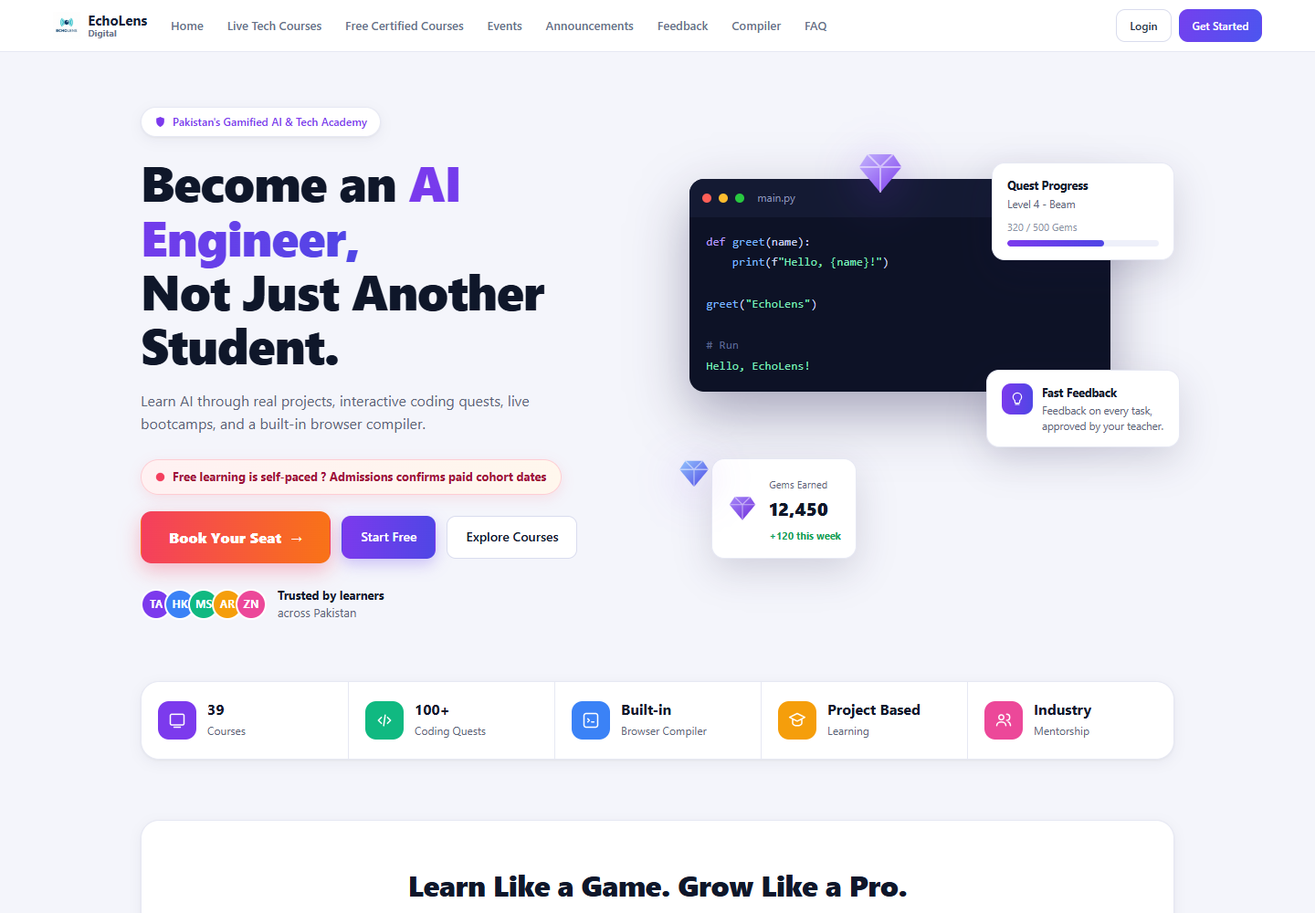
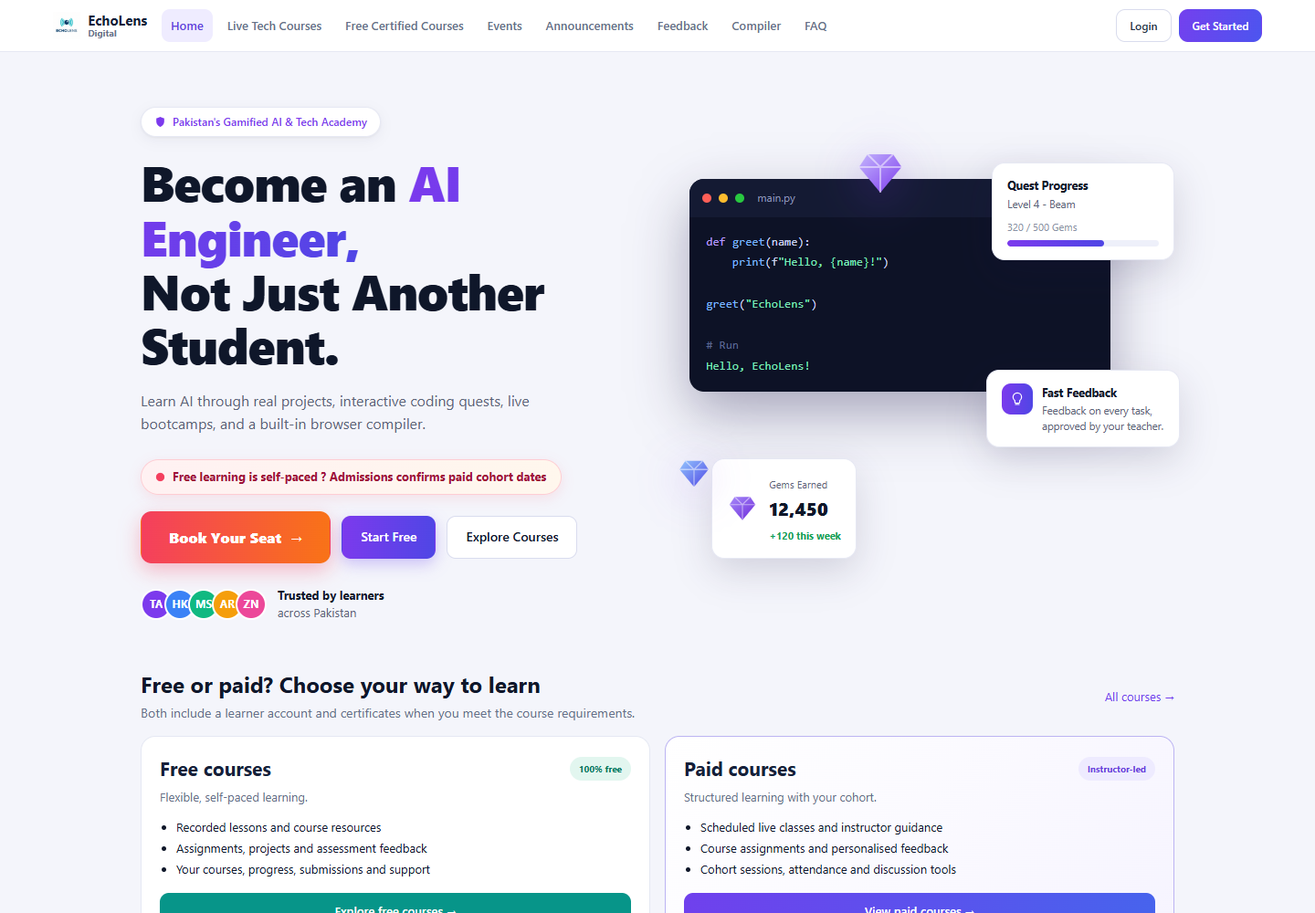
Make main website Home and place learning comparison after hero

diff --git a/public/landing.html b/public/landing.html
@@ -397,11 +397,12 @@ footer{background:var(--navy);color:#B9C1E4}
 </style>
 <link rel="stylesheet" href="/css/workflow.css">
 <link rel="stylesheet" href="/css/public-navigation.css?v1">
+<link rel="stylesheet" href="/css/home-learning.css?v1">
 </head>
 <body>
 
 <!-- ================================ NAV ================================ -->
-<nav class="open-nav public-navigation" aria-label="Main navigation"><a class="public-brand" href="/open#home" aria-label="EchoLens Home"><img src="/img/logo.png" alt="EchoLens"><span>EchoLens<small>Digital</small></span></a><a class="nlink" href="/open#home" data-tab="home">Home</a><a class="nlink" href="/open#paid" data-tab="courses" data-catnav="paid">Live Tech Courses</a><a class="nlink" href="/open#free" data-tab="courses" data-catnav="free">Free Certified Courses</a><a class="nlink" href="/open#events" data-tab="events">Events</a><a class="nlink" href="/open#announcements" data-tab="announcements">Announcements</a><a class="nlink" href="/open#feedback" data-tab="feedback">Feedback</a><a class="nlink" href="/compiler">Compiler</a><a class="nlink" href="/#faq">FAQ</a><span class="public-nav-account"><a class="btn btn-ghost btn-sm" id="signinBtn" data-public-login href="/login">Login</a><a class="btn btn-primary btn-sm" href="/open#signup">Get Started</a></span></nav>
+<nav class="open-nav public-navigation" aria-label="Main navigation"><a class="public-brand" href="/" aria-label="EchoLens Home"><img src="/img/logo.png" alt="EchoLens"><span>EchoLens<small>Digital</small></span></a><a class="nlink" href="/" data-tab="home">Home</a><a class="nlink" href="/open#paid" data-tab="courses" data-catnav="paid">Live Tech Courses</a><a class="nlink" href="/open#free" data-tab="courses" data-catnav="free">Free Certified Courses</a><a class="nlink" href="/open#events" data-tab="events">Events</a><a class="nlink" href="/open#announcements" data-tab="announcements">Announcements</a><a class="nlink" href="/open#feedback" data-tab="feedback">Feedback</a><a class="nlink" href="/compiler">Compiler</a><a class="nlink" href="/#faq">FAQ</a><span class="public-nav-account"><a class="btn btn-ghost btn-sm" id="signinBtn" data-public-login href="/login">Login</a><a class="btn btn-primary btn-sm" href="/open#signup">Get Started</a></span></nav>
 
 <div class="wrap">
 
@@ -418,7 +419,7 @@ footer{background:var(--navy);color:#B9C1E4}
     <div class="hero-btns">
       <a class="btn btn-book" href="/open#register">Book Your Seat &nbsp;&rarr;</a>
       <a class="btn btn-grad" href="/open#signup">Start Free</a>
-      <a class="btn btn-outline" href="#courses">Explore Courses</a>
+      <a class="btn btn-outline" href="/open#courses">Explore Courses</a>
     </div>
     <div class="hero-proof">
       <div class="avatars">
@@ -473,6 +474,16 @@ footer{background:var(--navy);color:#B9C1E4}
     <svg class="gem-float gf2" viewBox="0 0 24 24"><defs><linearGradient id="gg2" x1="0" y1="0" x2="1" y2="1"><stop offset="0" stop-color="#93C5FD"/><stop offset="1" stop-color="#4F46E5"/></linearGradient></defs><path d="M6 3h12l4 6-10 12L2 9l4-6z" fill="url(#gg2)"/><path d="M6 3l6 6 6-6M2 9h20M12 9l0 12" stroke="rgba(255,255,255,.5)" stroke-width=".8" fill="none"/></svg>
   </div>
 </header>
+
+    <section id="learning-options" class="home-learning" aria-labelledby="home-learning-title">
+      <div class="home-section-head"><div><h2 id="home-learning-title">Free or paid? Choose your way to learn</h2><p>Both include a learner account and certificates when you meet the course requirements.</p></div><a href="/open#courses">All courses &rarr;</a></div>
+      <div class="home-learning-grid">
+        <article class="home-learning-card"><div class="home-card-title"><h3>Free courses</h3><span class="cmp-badge free">100% free</span></div><p>Flexible, self-paced learning.</p><ul><li>Recorded lessons and course resources</li><li>Assignments, projects and assessment feedback</li><li>Your courses, progress, submissions and support</li></ul><a class="btn btn-teal btn-block" href="/open#free">Explore free courses &rarr;</a></article>
+        <article class="home-learning-card paid"><div class="home-card-title"><h3>Paid courses</h3><span class="cmp-badge paid">Instructor-led</span></div><p>Structured learning with your cohort.</p><ul><li>Scheduled live classes and instructor guidance</li><li>Course assignments and personalised feedback</li><li>Cohort sessions, attendance and discussion tools</li></ul><a class="btn btn-primary btn-block" href="/open#paid">View paid courses &rarr;</a></article>
+      </div>
+      <p class="home-learning-note">Check each course's outline and availability. AI grading is available where enabled; project evidence can require staff review. Admissions confirms paid cohort dates and payment.</p>
+    </section>
+
 
 <!-- ================================ STATS ================================ -->
 <section class="stats" aria-label="Platform highlights">
@@ -717,7 +728,7 @@ b = 20
       <a class="btn btn-white" href="/open#signup">
         Start Free
       </a>
-      <a class="btn" style="border:1px solid rgba(255,255,255,.35);color:#fff" href="#courses">Explore Courses</a>
+      <a class="btn" style="border:1px solid rgba(255,255,255,.35);color:#fff" href="/open#courses">Explore Courses</a>
     </div>
   </div>
   <div class="cta-stats">

diff --git a/public/registration-status.html b/public/registration-status.html
@@ -12,5 +12,5 @@
 <meta charset="utf-8"><meta name="viewport" content="width=device-width,initial-scale=1"><meta name="robots" content="noindex,nofollow"><meta name="referrer" content="no-referrer"><title>Registration receipt · EchoLens</title><link rel="stylesheet" href="/css/styles.css?v1430"><style>main{max-width:640px;margin:40px auto;padding:24px}button,input{min-height:44px}#receipt p{line-height:1.6}.receipt-actions{display:flex;gap:12px;flex-wrap:wrap;margin:20px 0}#notice{margin:16px 0}label{display:block;margin:16px 0}input{width:100%}</style><link rel="stylesheet" href="/css/public-navigation.css?v1">
 </head>
 <body>
-<nav class="open-nav public-navigation" aria-label="Main navigation"><a class="public-brand" href="/open#home" aria-label="EchoLens Home"><img src="/img/logo.png" alt="EchoLens"><span>EchoLens<small>Digital</small></span></a><a class="nlink" href="/open#home" data-tab="home">Home</a><a class="nlink" href="/open#paid" data-tab="courses" data-catnav="paid">Live Tech Courses</a><a class="nlink" href="/open#free" data-tab="courses" data-catnav="free">Free Certified Courses</a><a class="nlink" href="/open#events" data-tab="events">Events</a><a class="nlink" href="/open#announcements" data-tab="announcements">Announcements</a><a class="nlink" href="/open#feedback" data-tab="feedback">Feedback</a><a class="nlink" href="/compiler">Compiler</a><a class="nlink" href="/#faq">FAQ</a><span class="public-nav-account"><a class="btn btn-ghost btn-sm" id="signinBtn" data-public-login href="/login">Login</a><a class="btn btn-primary btn-sm" href="/open#signup">Get Started</a></span></nav><main><a href="/open">EchoLens Digital</a><h1>Your registration</h1><p>Keep this receipt link private. You can return here after closing the page or missing an email.</p><div id="notice" role="status" aria-live="polite">Loading…</div><section id="receipt" hidden><h2 id="offering"></h2><p id="reference"></p><p id="stage"></p><p id="delivery"></p><p id="amount"></p><div class="receipt-actions"><button id="refresh" class="btn btn-ghost">Refresh status</button><button id="download" class="btn btn-primary" hidden>Download challan PDF</button><a href="/login" class="btn btn-ghost">Sign in</a></div></section><form id="recover"><h2>Recover a receipt</h2><label>Registration email<input name="email" type="email" autocomplete="email" required></label><button class="btn btn-primary">Email my receipt links</button></form><p>Need help? <a href="mailto:admissions@echolens.digital">Contact Admissions</a>.</p><a href="/open#free">Explore free self-paced courses</a></main><script src="/js/registration-status.js?v1"></script><script src="/js/public-navigation.js?v1"></script>
+<nav class="open-nav public-navigation" aria-label="Main navigation"><a class="public-brand" href="/" aria-label="EchoLens Home"><img src="/img/logo.png" alt="EchoLens"><span>EchoLens<small>Digital</small></span></a><a class="nlink" href="/" data-tab="home">Home</a><a class="nlink" href="/open#paid" data-tab="courses" data-catnav="paid">Live Tech Courses</a><a class="nlink" href="/open#free" data-tab="courses" data-catnav="free">Free Certified Courses</a><a class="nlink" href="/open#events" data-tab="events">Events</a><a class="nlink" href="/open#announcements" data-tab="announcements">Announcements</a><a class="nlink" href="/open#feedback" data-tab="feedback">Feedback</a><a class="nlink" href="/compiler">Compiler</a><a class="nlink" href="/#faq">FAQ</a><span class="public-nav-account"><a class="btn btn-ghost btn-sm" id="signinBtn" data-public-login href="/login">Login</a><a class="btn btn-primary btn-sm" href="/open#signup">Get Started</a></span></nav><main><a href="/open">EchoLens Digital</a><h1>Your registration</h1><p>Keep this receipt link private. You can return here after closing the page or missing an email.</p><div id="notice" role="status" aria-live="polite">Loading…</div><section id="receipt" hidden><h2 id="offering"></h2><p id="reference"></p><p id="stage"></p><p id="delivery"></p><p id="amount"></p><div class="receipt-actions"><button id="refresh" class="btn btn-ghost">Refresh status</button><button id="download" class="btn btn-primary" hidden>Download challan PDF</button><a href="/login" class="btn btn-ghost">Sign in</a></div></section><form id="recover"><h2>Recover a receipt</h2><label>Registration email<input name="email" type="email" autocomplete="email" required></label><button class="btn btn-primary">Email my receipt links</button></form><p>Need help? <a href="mailto:admissions@echolens.digital">Contact Admissions</a>.</p><a href="/open#free">Explore free self-paced courses</a></main><script src="/js/registration-status.js?v1"></script><script src="/js/public-navigation.js?v1"></script>
 </body></html>

diff --git a/public/open.html b/public/open.html
@@ -49,7 +49,7 @@
 </head>
 <body>
 
-<nav class="open-nav public-navigation" aria-label="Main navigation"><a class="public-brand" href="/open#home" aria-label="EchoLens Home"><img src="/img/logo.png" alt="EchoLens"><span>EchoLens<small>Digital</small></span></a><a class="nlink" href="/open#home" data-tab="home">Home</a><a class="nlink" href="/open#paid" data-tab="courses" data-catnav="paid">Live Tech Courses</a><a class="nlink" href="/open#free" data-tab="courses" data-catnav="free">Free Certified Courses</a><a class="nlink" href="/open#events" data-tab="events">Events</a><a class="nlink" href="/open#announcements" data-tab="announcements">Announcements</a><a class="nlink" href="/open#feedback" data-tab="feedback">Feedback</a><a class="nlink" href="/compiler">Compiler</a><a class="nlink" href="/#faq">FAQ</a><span class="public-nav-account"><span id="userBox"></span></span></nav>
+<nav class="open-nav public-navigation" aria-label="Main navigation"><a class="public-brand" href="/" aria-label="EchoLens Home"><img src="/img/logo.png" alt="EchoLens"><span>EchoLens<small>Digital</small></span></a><a class="nlink" href="/" data-tab="home">Home</a><a class="nlink" href="/open#paid" data-tab="courses" data-catnav="paid">Live Tech Courses</a><a class="nlink" href="/open#free" data-tab="courses" data-catnav="free">Free Certified Courses</a><a class="nlink" href="/open#events" data-tab="events">Events</a><a class="nlink" href="/open#announcements" data-tab="announcements">Announcements</a><a class="nlink" href="/open#feedback" data-tab="feedback">Feedback</a><a class="nlink" href="/compiler">Compiler</a><a class="nlink" href="/#faq">FAQ</a><span class="public-nav-account"><span id="userBox"></span></span></nav>
 
 <div class="open-wrap" id="appWrap">
 
@@ -80,7 +80,7 @@
 
   <!-- ================== COURSES (the portal's main page) ================== -->
   <section id="tab-courses" style="display:none">
-    <a class="nlink" href="#home">&larr; Home</a>
+    <a class="nlink" href="/">&larr; Home</a>
     <div style="display:flex;gap:14px;align-items:end;flex-wrap:wrap;margin-bottom:6px">
       <div>
         <h1 style="font-family:var(--font-display);font-size:28px;color:var(--ink)">Course catalogue</h1>
@@ -222,7 +222,7 @@
 <script src="/js/draft-store.js?v1"></script>
 <script src="/js/workflow-ui.js?v2"></script>
 <script src="/js/coderunner.js?v1421"></script>
-<script src="/js/open.js?v1441"></script>
+<script src="/js/open.js?v1442"></script>
 <script src="/js/public-navigation.js?v1"></script>
 </body>
 </html>

diff --git a/public/privacy.html b/public/privacy.html
@@ -28,7 +28,7 @@
 <link rel="stylesheet" href="/css/public-navigation.css?v1">
 </head>
 <body class="pub-body">
-<nav class="open-nav public-navigation" aria-label="Main navigation"><a class="public-brand" href="/open#home" aria-label="EchoLens Home"><img src="/img/logo.png" alt="EchoLens"><span>EchoLens<small>Digital</small></span></a><a class="nlink" href="/open#home" data-tab="home">Home</a><a class="nlink" href="/open#paid" data-tab="courses" data-catnav="paid">Live Tech Courses</a><a class="nlink" href="/open#free" data-tab="courses" data-catnav="free">Free Certified Courses</a><a class="nlink" href="/open#events" data-tab="events">Events</a><a class="nlink" href="/open#announcements" data-tab="announcements">Announcements</a><a class="nlink" href="/open#feedback" data-tab="feedback">Feedback</a><a class="nlink" href="/compiler">Compiler</a><a class="nlink" href="/#faq">FAQ</a><span class="public-nav-account"><a class="btn btn-ghost btn-sm" id="signinBtn" data-public-login href="/login">Login</a><a class="btn btn-primary btn-sm" href="/open#signup">Get Started</a></span></nav>
+<nav class="open-nav public-navigation" aria-label="Main navigation"><a class="public-brand" href="/" aria-label="EchoLens Home"><img src="/img/logo.png" alt="EchoLens"><span>EchoLens<small>Digital</small></span></a><a class="nlink" href="/" data-tab="home">Home</a><a class="nlink" href="/open#paid" data-tab="courses" data-catnav="paid">Live Tech Courses</a><a class="nlink" href="/open#free" data-tab="courses" data-catnav="free">Free Certified Courses</a><a class="nlink" href="/open#events" data-tab="events">Events</a><a class="nlink" href="/open#announcements" data-tab="announcements">Announcements</a><a class="nlink" href="/open#feedback" data-tab="feedback">Feedback</a><a class="nlink" href="/compiler">Compiler</a><a class="nlink" href="/#faq">FAQ</a><span class="public-nav-account"><a class="btn btn-ghost btn-sm" id="signinBtn" data-public-login href="/login">Login</a><a class="btn btn-primary btn-sm" href="/open#signup">Get Started</a></span></nav>
   <div class="pub-card" style="max-width:760px;text-align:left">
     <h1>Privacy</h1>
     <p class="s" style="color:var(--muted)">This page explains what EchoLens collects in plain language, with a detailed section on the Talent Marketplace specifically. It is not a substitute for formal legal advice - if you need a full Terms of Service or a legally reviewed privacy policy, have one drafted by counsel before relying on this page for that purpose.</p>

diff --git a/public/talent-projects.html b/public/talent-projects.html
@@ -27,7 +27,7 @@
 <link rel="stylesheet" href="/css/public-navigation.css?v1">
 </head>
 <body class="pub-body">
-<nav class="open-nav public-navigation" aria-label="Main navigation"><a class="public-brand" href="/open#home" aria-label="EchoLens Home"><img src="/img/logo.png" alt="EchoLens"><span>EchoLens<small>Digital</small></span></a><a class="nlink" href="/open#home" data-tab="home">Home</a><a class="nlink" href="/open#paid" data-tab="courses" data-catnav="paid">Live Tech Courses</a><a class="nlink" href="/open#free" data-tab="courses" data-catnav="free">Free Certified Courses</a><a class="nlink" href="/open#events" data-tab="events">Events</a><a class="nlink" href="/open#announcements" data-tab="announcements">Announcements</a><a class="nlink" href="/open#feedback" data-tab="feedback">Feedback</a><a class="nlink" href="/compiler">Compiler</a><a class="nlink" href="/#faq">FAQ</a><span class="public-nav-account"><a class="btn btn-ghost btn-sm" id="signinBtn" data-public-login href="/login">Login</a><a class="btn btn-primary btn-sm" href="/open#signup">Get Started</a></span></nav>
+<nav class="open-nav public-navigation" aria-label="Main navigation"><a class="public-brand" href="/" aria-label="EchoLens Home"><img src="/img/logo.png" alt="EchoLens"><span>EchoLens<small>Digital</small></span></a><a class="nlink" href="/" data-tab="home">Home</a><a class="nlink" href="/open#paid" data-tab="courses" data-catnav="paid">Live Tech Courses</a><a class="nlink" href="/open#free" data-tab="courses" data-catnav="free">Free Certified Courses</a><a class="nlink" href="/open#events" data-tab="events">Events</a><a class="nlink" href="/open#announcements" data-tab="announcements">Announcements</a><a class="nlink" href="/open#feedback" data-tab="feedback">Feedback</a><a class="nlink" href="/compiler">Compiler</a><a class="nlink" href="/#faq">FAQ</a><span class="public-nav-account"><a class="btn btn-ghost btn-sm" id="signinBtn" data-public-login href="/login">Login</a><a class="btn btn-primary btn-sm" href="/open#signup">Get Started</a></span></nav>
   <div class="pub-card" id="card" style="max-width:900px">
     <div class="pub-head"><div><h1>Student Projects</h1><div class="s" style="color:var(--muted)">Real, graded coursework and self-built projects from EchoLens students.</div></div></div>
     <div class="field" style="max-width:360px">

diff --git a/public/talent-search.html b/public/talent-search.html
@@ -27,7 +27,7 @@
 <link rel="stylesheet" href="/css/public-navigation.css?v1">
 </head>
 <body>
-<nav class="open-nav public-navigation" aria-label="Main navigation"><a class="public-brand" href="/open#home" aria-label="EchoLens Home"><img src="/img/logo.png" alt="EchoLens"><span>EchoLens<small>Digital</small></span></a><a class="nlink" href="/open#home" data-tab="home">Home</a><a class="nlink" href="/open#paid" data-tab="courses" data-catnav="paid">Live Tech Courses</a><a class="nlink" href="/open#free" data-tab="courses" data-catnav="free">Free Certified Courses</a><a class="nlink" href="/open#events" data-tab="events">Events</a><a class="nlink" href="/open#announcements" data-tab="announcements">Announcements</a><a class="nlink" href="/open#feedback" data-tab="feedback">Feedback</a><a class="nlink" href="/compiler">Compiler</a><a class="nlink" href="/#faq">FAQ</a><span class="public-nav-account"><a class="btn btn-ghost btn-sm" id="signinBtn" data-public-login href="/login">Login</a><a class="btn btn-primary btn-sm" href="/open#signup">Get Started</a></span></nav>
+<nav class="open-nav public-navigation" aria-label="Main navigation"><a class="public-brand" href="/" aria-label="EchoLens Home"><img src="/img/logo.png" alt="EchoLens"><span>EchoLens<small>Digital</small></span></a><a class="nlink" href="/" data-tab="home">Home</a><a class="nlink" href="/open#paid" data-tab="courses" data-catnav="paid">Live Tech Courses</a><a class="nlink" href="/open#free" data-tab="courses" data-catnav="free">Free Certified Courses</a><a class="nlink" href="/open#events" data-tab="events">Events</a><a class="nlink" href="/open#announcements" data-tab="announcements">Announcements</a><a class="nlink" href="/open#feedback" data-tab="feedback">Feedback</a><a class="nlink" href="/compiler">Compiler</a><a class="nlink" href="/#faq">FAQ</a><span class="public-nav-account"><a class="btn btn-ghost btn-sm" id="signinBtn" data-public-login href="/login">Login</a><a class="btn btn-primary btn-sm" href="/open#signup">Get Started</a></span></nav>
 <div id="gate" class="gate"><img src="/img/logo.png" alt="EchoLens" style="width:120px"><div>Loading talent search</div></div>
 <div class="content" id="app" style="display:none;max-width:1100px;margin:0 auto;padding:24px 16px 60px">
   <h1 style="margin-bottom:4px">Talent Search</h1>

diff --git a/public/talent-interest.html b/public/talent-interest.html
@@ -27,7 +27,7 @@
 <link rel="stylesheet" href="/css/public-navigation.css?v1">
 </head>
 <body>
-<nav class="open-nav public-navigation" aria-label="Main navigation"><a class="public-brand" href="/open#home" aria-label="EchoLens Home"><img src="/img/logo.png" alt="EchoLens"><span>EchoLens<small>Digital</small></span></a><a class="nlink" href="/open#home" data-tab="home">Home</a><a class="nlink" href="/open#paid" data-tab="courses" data-catnav="paid">Live Tech Courses</a><a class="nlink" href="/open#free" data-tab="courses" data-catnav="free">Free Certified Courses</a><a class="nlink" href="/open#events" data-tab="events">Events</a><a class="nlink" href="/open#announcements" data-tab="announcements">Announcements</a><a class="nlink" href="/open#feedback" data-tab="feedback">Feedback</a><a class="nlink" href="/compiler">Compiler</a><a class="nlink" href="/#faq">FAQ</a><span class="public-nav-account"><a class="btn btn-ghost btn-sm" id="signinBtn" data-public-login href="/login">Login</a><a class="btn btn-primary btn-sm" href="/open#signup">Get Started</a></span></nav>
+<nav class="open-nav public-navigation" aria-label="Main navigation"><a class="public-brand" href="/" aria-label="EchoLens Home"><img src="/img/logo.png" alt="EchoLens"><span>EchoLens<small>Digital</small></span></a><a class="nlink" href="/" data-tab="home">Home</a><a class="nlink" href="/open#paid" data-tab="courses" data-catnav="paid">Live Tech Courses</a><a class="nlink" href="/open#free" data-tab="courses" data-catnav="free">Free Certified Courses</a><a class="nlink" href="/open#events" data-tab="events">Events</a><a class="nlink" href="/open#announcements" data-tab="announcements">Announcements</a><a class="nlink" href="/open#feedback" data-tab="feedback">Feedback</a><a class="nlink" href="/compiler">Compiler</a><a class="nlink" href="/#faq">FAQ</a><span class="public-nav-account"><a class="btn btn-ghost btn-sm" id="signinBtn" data-public-login href="/login">Login</a><a class="btn btn-primary btn-sm" href="/open#signup">Get Started</a></span></nav>
 <div id="gate" class="gate"><img src="/img/logo.png" alt="EchoLens" style="width:120px"><div>Loading</div></div>
 <div class="content" id="app" style="display:none;max-width:900px;margin:0 auto;padding:24px 16px 60px">
   <h1 style="margin-bottom:4px">My Contact Requests</h1>

diff --git a/public/talent-profile.html b/public/talent-profile.html
@@ -27,7 +27,7 @@
 <link rel="stylesheet" href="/css/public-navigation.css?v1">
 </head>
 <body class="pub-body">
-<nav class="open-nav public-navigation" aria-label="Main navigation"><a class="public-brand" href="/open#home" aria-label="EchoLens Home"><img src="/img/logo.png" alt="EchoLens"><span>EchoLens<small>Digital</small></span></a><a class="nlink" href="/open#home" data-tab="home">Home</a><a class="nlink" href="/open#paid" data-tab="courses" data-catnav="paid">Live Tech Courses</a><a class="nlink" href="/open#free" data-tab="courses" data-catnav="free">Free Certified Courses</a><a class="nlink" href="/open#events" data-tab="events">Events</a><a class="nlink" href="/open#announcements" data-tab="announcements">Announcements</a><a class="nlink" href="/open#feedback" data-tab="feedback">Feedback</a><a class="nlink" href="/compiler">Compiler</a><a class="nlink" href="/#faq">FAQ</a><span class="public-nav-account"><a class="btn btn-ghost btn-sm" id="signinBtn" data-public-login href="/login">Login</a><a class="btn btn-primary btn-sm" href="/open#signup">Get Started</a></span></nav>
+<nav class="open-nav public-navigation" aria-label="Main navigation"><a class="public-brand" href="/" aria-label="EchoLens Home"><img src="/img/logo.png" alt="EchoLens"><span>EchoLens<small>Digital</small></span></a><a class="nlink" href="/" data-tab="home">Home</a><a class="nlink" href="/open#paid" data-tab="courses" data-catnav="paid">Live Tech Courses</a><a class="nlink" href="/open#free" data-tab="courses" data-catnav="free">Free Certified Courses</a><a class="nlink" href="/open#events" data-tab="events">Events</a><a class="nlink" href="/open#announcements" data-tab="announcements">Announcements</a><a class="nlink" href="/open#feedback" data-tab="feedback">Feedback</a><a class="nlink" href="/compiler">Compiler</a><a class="nlink" href="/#faq">FAQ</a><span class="public-nav-account"><a class="btn btn-ghost btn-sm" id="signinBtn" data-public-login href="/login">Login</a><a class="btn btn-primary btn-sm" href="/open#signup">Get Started</a></span></nav>
   <div class="pub-card" id="card" style="max-width:760px">
     <div class="empty" style="padding:40px 10px">Loading profile&hellip;</div>
   </div>

diff --git a/public/talent-project.html b/public/talent-project.html
@@ -27,7 +27,7 @@
 <link rel="stylesheet" href="/css/public-navigation.css?v1">
 </head>
 <body class="pub-body">
-<nav class="open-nav public-navigation" aria-label="Main navigation"><a class="public-brand" href="/open#home" aria-label="EchoLens Home"><img src="/img/logo.png" alt="EchoLens"><span>EchoLens<small>Digital</small></span></a><a class="nlink" href="/open#home" data-tab="home">Home</a><a class="nlink" href="/open#paid" data-tab="courses" data-catnav="paid">Live Tech Courses</a><a class="nlink" href="/open#free" data-tab="courses" data-catnav="free">Free Certified Courses</a><a class="nlink" href="/open#events" data-tab="events">Events</a><a class="nlink" href="/open#announcements" data-tab="announcements">Announcements</a><a class="nlink" href="/open#feedback" data-tab="feedback">Feedback</a><a class="nlink" href="/compiler">Compiler</a><a class="nlink" href="/#faq">FAQ</a><span class="public-nav-account"><a class="btn btn-ghost btn-sm" id="signinBtn" data-public-login href="/login">Login</a><a class="btn btn-primary btn-sm" href="/open#signup">Get Started</a></span></nav>
+<nav class="open-nav public-navigation" aria-label="Main navigation"><a class="public-brand" href="/" aria-label="EchoLens Home"><img src="/img/logo.png" alt="EchoLens"><span>EchoLens<small>Digital</small></span></a><a class="nlink" href="/" data-tab="home">Home</a><a class="nlink" href="/open#paid" data-tab="courses" data-catnav="paid">Live Tech Courses</a><a class="nlink" href="/open#free" data-tab="courses" data-catnav="free">Free Certified Courses</a><a class="nlink" href="/open#events" data-tab="events">Events</a><a class="nlink" href="/open#announcements" data-tab="announcements">Announcements</a><a class="nlink" href="/open#feedback" data-tab="feedback">Feedback</a><a class="nlink" href="/compiler">Compiler</a><a class="nlink" href="/#faq">FAQ</a><span class="public-nav-account"><a class="btn btn-ghost btn-sm" id="signinBtn" data-public-login href="/login">Login</a><a class="btn btn-primary btn-sm" href="/open#signup">Get Started</a></span></nav>
   <div class="pub-card" id="card" style="max-width:760px">
     <div class="empty" style="padding:40px 10px">Loading project&hellip;</div>
   </div>

diff --git a/public/recruiter-signup.html b/public/recruiter-signup.html
@@ -29,7 +29,7 @@
 <link rel="stylesheet" href="/css/public-navigation.css?v1">
 </head>
 <body class="auth-body">
-<nav class="open-nav public-navigation" aria-label="Main navigation"><a class="public-brand" href="/open#home" aria-label="EchoLens Home"><img src="/img/logo.png" alt="EchoLens"><span>EchoLens<small>Digital</small></span></a><a class="nlink" href="/open#home" data-tab="home">Home</a><a class="nlink" href="/open#paid" data-tab="courses" data-catnav="paid">Live Tech Courses</a><a class="nlink" href="/open#free" data-tab="courses" data-catnav="free">Free Certified Courses</a><a class="nlink" href="/open#events" data-tab="events">Events</a><a class="nlink" href="/open#announcements" data-tab="announcements">Announcements</a><a class="nlink" href="/open#feedback" data-tab="feedback">Feedback</a><a class="nlink" href="/compiler">Compiler</a><a class="nlink" href="/#faq">FAQ</a><span class="public-nav-account"><a class="btn btn-ghost btn-sm" id="signinBtn" data-public-login href="/login">Login</a><a class="btn btn-primary btn-sm" href="/open#signup">Get Started</a></span></nav>
+<nav class="open-nav public-navigation" aria-label="Main navigation"><a class="public-brand" href="/" aria-label="EchoLens Home"><img src="/img/logo.png" alt="EchoLens"><span>EchoLens<small>Digital</small></span></a><a class="nlink" href="/" data-tab="home">Home</a><a class="nlink" href="/open#paid" data-tab="courses" data-catnav="paid">Live Tech Courses</a><a class="nlink" href="/open#free" data-tab="courses" data-catnav="free">Free Certified Courses</a><a class="nlink" href="/open#events" data-tab="events">Events</a><a class="nlink" href="/open#announcements" data-tab="announcements">Announcements</a><a class="nlink" href="/open#feedback" data-tab="feedback">Feedback</a><a class="nlink" href="/compiler">Compiler</a><a class="nlink" href="/#faq">FAQ</a><span class="public-nav-account"><a class="btn btn-ghost btn-sm" id="signinBtn" data-public-login href="/login">Login</a><a class="btn btn-primary btn-sm" href="/open#signup">Get Started</a></span></nav>
   <div class="auth-wrap" style="max-width:480px">
     <div class="auth-card">
       <img src="/img/logo.png" alt="EchoLens" class="auth-logo">

diff --git a/public/showcase.html b/public/showcase.html
@@ -28,7 +28,7 @@
 <link rel="stylesheet" href="/css/public-navigation.css?v1">
 </head>
 <body class="grade-page">
-<nav class="open-nav public-navigation" aria-label="Main navigation"><a class="public-brand" href="/open#home" aria-label="EchoLens Home"><img src="/img/logo.png" alt="EchoLens"><span>EchoLens<small>Digital</small></span></a><a class="nlink" href="/open#home" data-tab="home">Home</a><a class="nlink" href="/open#paid" data-tab="courses" data-catnav="paid">Live Tech Courses</a><a class="nlink" href="/open#free" data-tab="courses" data-catnav="free">Free Certified Courses</a><a class="nlink" href="/open#events" data-tab="events">Events</a><a class="nlink" href="/open#announcements" data-tab="announcements">Announcements</a><a class="nlink" href="/open#feedback" data-tab="feedback">Feedback</a><a class="nlink" href="/compiler">Compiler</a><a class="nlink" href="/#faq">FAQ</a><span class="public-nav-account"><a class="btn btn-ghost btn-sm" id="signinBtn" data-public-login href="/login">Login</a><a class="btn btn-primary btn-sm" href="/open#signup">Get Started</a></span></nav>
+<nav class="open-nav public-navigation" aria-label="Main navigation"><a class="public-brand" href="/" aria-label="EchoLens Home"><img src="/img/logo.png" alt="EchoLens"><span>EchoLens<small>Digital</small></span></a><a class="nlink" href="/" data-tab="home">Home</a><a class="nlink" href="/open#paid" data-tab="courses" data-catnav="paid">Live Tech Courses</a><a class="nlink" href="/open#free" data-tab="courses" data-catnav="free">Free Certified Courses</a><a class="nlink" href="/open#events" data-tab="events">Events</a><a class="nlink" href="/open#announcements" data-tab="announcements">Announcements</a><a class="nlink" href="/open#feedback" data-tab="feedback">Feedback</a><a class="nlink" href="/compiler">Compiler</a><a class="nlink" href="/#faq">FAQ</a><span class="public-nav-account"><a class="btn btn-ghost btn-sm" id="signinBtn" data-public-login href="/login">Login</a><a class="btn btn-primary btn-sm" href="/open#signup">Get Started</a></span></nav>
 
 <div id="gate" class="gate"><img src="/img/logo.png" alt="EchoLens" style="width:120px"><div>Loading the showcase&hellip;</div></div>
 

diff --git a/public/showcase-post.html b/public/showcase-post.html
@@ -28,7 +28,7 @@
 <link rel="stylesheet" href="/css/public-navigation.css?v1">
 </head>
 <body class="pub-body">
-<nav class="open-nav public-navigation" aria-label="Main navigation"><a class="public-brand" href="/open#home" aria-label="EchoLens Home"><img src="/img/logo.png" alt="EchoLens"><span>EchoLens<small>Digital</small></span></a><a class="nlink" href="/open#home" data-tab="home">Home</a><a class="nlink" href="/open#paid" data-tab="courses" data-catnav="paid">Live Tech Courses</a><a class="nlink" href="/open#free" data-tab="courses" data-catnav="free">Free Certified Courses</a><a class="nlink" href="/open#events" data-tab="events">Events</a><a class="nlink" href="/open#announcements" data-tab="announcements">Announcements</a><a class="nlink" href="/open#feedback" data-tab="feedback">Feedback</a><a class="nlink" href="/compiler">Compiler</a><a class="nlink" href="/#faq">FAQ</a><span class="public-nav-account"><a class="btn btn-ghost btn-sm" id="signinBtn" data-public-login href="/login">Login</a><a class="btn btn-primary btn-sm" href="/open#signup">Get Started</a></span></nav>
+<nav class="open-nav public-navigation" aria-label="Main navigation"><a class="public-brand" href="/" aria-label="EchoLens Home"><img src="/img/logo.png" alt="EchoLens"><span>EchoLens<small>Digital</small></span></a><a class="nlink" href="/" data-tab="home">Home</a><a class="nlink" href="/open#paid" data-tab="courses" data-catnav="paid">Live Tech Courses</a><a class="nlink" href="/open#free" data-tab="courses" data-catnav="free">Free Certified Courses</a><a class="nlink" href="/open#events" data-tab="events">Events</a><a class="nlink" href="/open#announcements" data-tab="announcements">Announcements</a><a class="nlink" href="/open#feedback" data-tab="feedback">Feedback</a><a class="nlink" href="/compiler">Compiler</a><a class="nlink" href="/#faq">FAQ</a><span class="public-nav-account"><a class="btn btn-ghost btn-sm" id="signinBtn" data-public-login href="/login">Login</a><a class="btn btn-primary btn-sm" href="/open#signup">Get Started</a></span></nav>
   <div class="pub-card" id="card" style="max-width:640px">
     <div id="content"><div class="empty">Loading&hellip;</div></div>
   </div>
